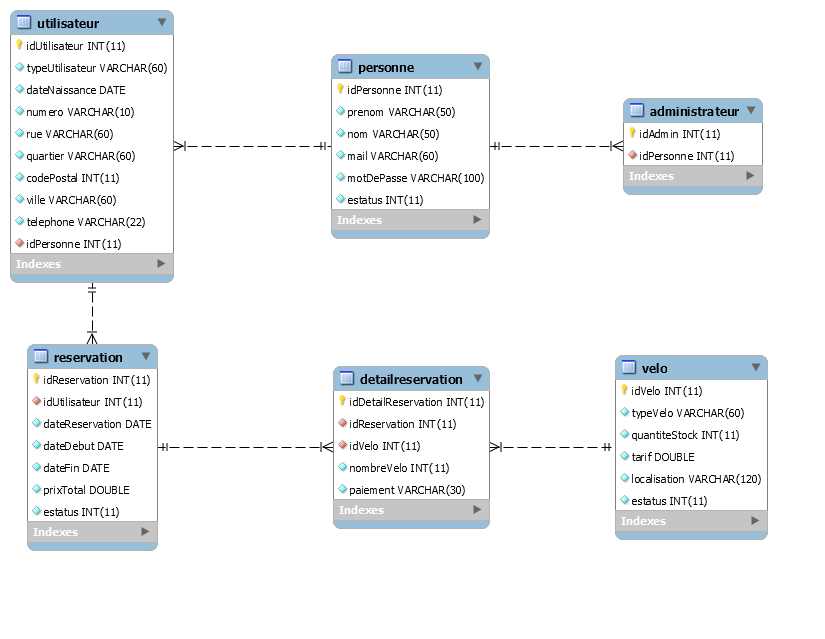
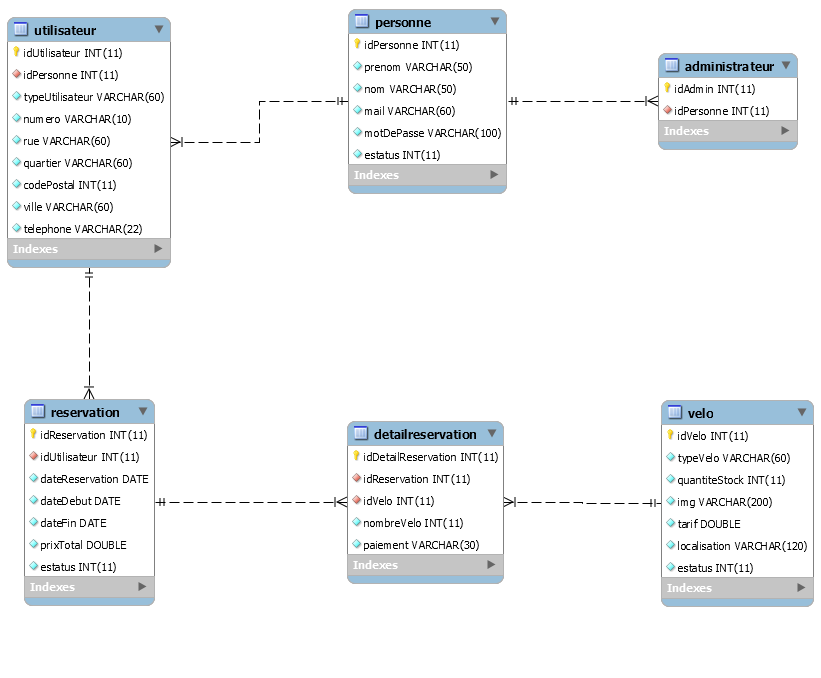
Projet Vélapp

diff --git a/cdc_technique.html b/cdc_technique.html
@@ -51,11 +51,11 @@
 			<ul class="list-group list-group-flush">
 				<li class="list-group-item">
 					<p>Tout d’abord, il faut choisir les technologies à utiliser pour la réalisation du projet, ils
-						doivent comprendre en tant que le développement mobile, la base de données et le capteur
-						d’alerte en cas d’un antivol du vélo.</p>
-					<p><b>Développement mobile </b></p>
+						doivent comprendre en tant que le développement de la progressive web app, la base de données et
+						le capteur de température et détection en cas d’une chute des vélos.</p>
+					<p><b>Développement PWA </b></p>
 					<p><b><i><a href="https://onsen.io/">Onsen UI :</a></i></b><img src="img/onsen.png"
-							style="width: 80px; height: 100px; float: right; margin-top: -10px; margin-left: 3px; margin-right: auto;">
+							style="width: 50px; height: 60px; float: right; margin-top: -70px; margin-left: 3px; margin-right: auto;">
 						Onsen UI est un Framework open source pour créer des applications Web
 						progressives (PWAs) et des applications hybrides. Il est basé sur PhoneGap et Cordova. Les
 						applications Web progressives (PWAs) sont créées avec le but d’offrir une fiabilité et une
@@ -65,16 +65,15 @@
 					<p>Onsen UI peut être utilisé avec plusieurs frameworks en tant de JavaScript, AngularJS (1, 2+),
 						ReactJS et
 						JQuery. Grâce à Onsen UI, des applications mobiles peuvent être créées à l’aide de technologies
-						Web en tant de <b>HTML5, CSS</b> et <b>JavaScript</b>. C’est pourquoi il a été décidé de
-						réaliser une
-						application web progressive, on peut l’utiliser soit par l’ordinateur ou bien pour le mobile en
-						utilisant simplement ces technologies, au lieu d’utiliser des langages natifs pour le
-						développement mobile et qu’ils ne permettent pas de créer des applications web. Notre cliente
-						pourra faire d’usage de l’application n’importe quel appareil une fois installée.</p>
+						Web en tant de <b>HTML5, CSS</b> et <b>JavaScript</b>. Ces dernières étant choisies pour le
+						développement de l’application. De même, l’utilisation de la librairie <b>Bootstrap</b> sera
+						largement
+						utilisée dans le projet, afin d’obtenir de meilleurs résultats dans l’interface web ou mobile,
+						tout en respectant à tout moment un design responsif.</p>
 					<p><b>Gestionnaires de Bases de Données</b></p>
 					<p><b><i><a href="https://www.mysql.com/">MySQL :</a></i></b><img
 							src="https://upload.wikimedia.org/wikipedia/fr/thumb/6/62/MySQL.svg/1200px-MySQL.svg.png"
-							style="width: 150px; height: 100px; float: right; margin-top: -15px; margin-left: 5px; margin-right: auto;">
+							style="width: 100px; height: 50px; float: right; margin-top: -60px; margin-left: 5px; margin-right: auto;">
 						C’est un système open source pour la gestion de base de données relationnelle
 						(RDBMS). Une base de données relationnelle permet d’entreposer et d’organiser les données
 						structurées sous forme de tableaux liés entre eux. Nous pouvons définir MySQL en tant qu’un
@@ -82,36 +81,65 @@
 						données d'une base de données, parmi les actions disponibles : créer, lire, mettre en jour et
 						supprimer (CRUD en anglais).</p>
 					<p>En raison des caractéristiques du projet à développer, il a été décidé d’utiliser une base de
-						données relationnelle, parce que les données à gérer ainsi que doivent être organisées et que
-						les tableaux seront liés les uns aux autres.</p>
-					<p><b>Components (Anti-vol)</b></p>
+						données relationnelle, parce que les données à gérer doivent être organisées et les tableaux
+						seront liés les uns aux autres.</p>
+					<p><b>Langage côté serveur</b></p>
+					<p><b><i><a href="https://www.java.com/es/">Java :</a></i></b><img
+							src="https://img-0.journaldunet.com/HfJq3WeEZD8WMieqZqeiYTk_9MQ=/1500x/smart/218d741508034c0aaf1e4c246f54756d/ccmcms-jdn/12420397.jpg"
+							style="width: 100px; height: 60px; float: right; margin-top: -70px; margin-left: 5px; margin-right: auto;">
+						Pour l’échange de données entre notre application et la base de données, il est nécessaire
+						d’utiliser un langage côté serveur. Java a été choisi pour cela. Un langage open source qui
+						permet la programmation orientée objet. Pour utiliser Java, il est nécessaire d’avoir le JDK,
+						qui est un ensemble de bibliothèques et de
+						logiciels de développement pour la création d’applications en Java, ainsi que le compilateur et
+						l’interpréteur Java.</p>
+					<p>Un IDE est également nécessaire, notre environnement de développement intégré sera Netbeans, qui
+						nous permet de versionner le projet comme Github et fournit divers outils pour une
+						implémentation simple.</p>
+					<p>Le projet suivra le MVC (Modèle, Vue, Contrôleur). Les classes seront définies avec java, qui
+						sont des entités (objets) avec des attributs et des méthodes. Les contrôleurs seront le lien
+						entre la vue et le modèle. Enfin, la vue correspond à toute la logique de l’interface de
+						l’utilisateur.</p>
+					<p><b>Serveur Web</b></p>
+					<p><b><i><a href="https://httpd.apache.org/">Apache :</a></i></b><img
+							src="https://desarrolloweb.com/storage/tag_images/actual/nzShTvdaGzLCIO0FalGMkhnqXIcXcIwXABW9b4JU.png"
+							style="width: 110px; height: 70px; float: right; margin-top: -70px; margin-left: 5px; margin-right: auto;">
+						Pour faire fonctionner le serveur qui hébergera notre application lors de la création du projet,
+						il a été choisi d’utiliser Apache qui est intégré sur Netbeans.</p>
+					<p><b>Components (Objets Connectés)</b></p>
 					<p><b><i><a href="https://www.arduino.cc/en/software">Arduino :</a></i></b><img
 							src="https://www.wizcase.com/wp-content/uploads/2020/10/ArduinoLogo.png"
-							style="width: 120px; height: 80px; float: right; margin-top: -1px; margin-left: 5px; margin-right: auto;">
+							style="width: 90px; height: 50px; float: right; margin-top: -60px; margin-left: 5px; margin-right: auto;">
 						Tout d’abord, il faut souligner notre environnement du développement pour les components à
 						utiliser. Le projet sera développé dans l’IDE Arduino, c’est une plateforme ouverte (open
 						source) écrite en fonctions C et C ++, il est utilisé pour écrire et charger des programmes sur
 						des plaques compatibles avec Arduino. C’est grâce à sa facilité et l’énorme communauté qu’il
 						compte, que j’ai décidé choisir l’IDE Arduino.
 					</p>
-					<p><b><i><a href="https://www.espressif.com/en/products/socs/esp32">ESP32 :</a> </i></b><img
-							src="https://cdn.shopify.com/s/files/1/1509/1638/products/devkitcmain1er.jpg?v=1605876225"
-							style="width: 100px; height: 110px; float: right; margin-top: -15px; margin-left: 5px; margin-right: auto;">
-						Il s’agit d’une série de microcontrôleurs système sur une puce, peu coûteuse et accessible sur
-						le marché (le prix est compris entre 10 euros). Il dispose d’une connectivité Wifi et Bluetooth.
-						Bien qu’il soit légèrement plus cher
-						que l’ESP8266, l’ESP32 est amélioré en matière de Bluetooth 4.0, de chiffrement par hardware,
-						capteurs, horloge temps réel (RTC). Enfin, il offre plus de ports et plus de bus. C’est grâce à
-						ses points favorables qu’on a décidé d’utiliser ce microcontrôleur pour ce projet.
+					<p><b><i><a href="https://www.arduino.cc/en/software">Adafruit IO :</a></i></b><img
+							src="https://upload.wikimedia.org/wikipedia/commons/thumb/9/90/Adafruit_logo.svg/2560px-Adafruit_logo.svg.png"
+							style="width: 80px; height: 40px; float: right; margin-top: -40px; margin-left: 5px; margin-right: auto;">
+						C’est un service cloud qui nous permet de surveiller les données et de réaliser des rayons de
+						contrôle en ligne et tout communiqué avec le protocole simple et efficace MQTT. Si bien, il
+						possède certaines limitations, mais ses avantages se trouvent dans la facilité d’utilisation, un
+						service gratuit et entièrement fonctionnel.
 					</p>
-					<p><b><i><a href="">Capteur HC-SR501 :</a></i></b><img
-							src="https://1.bp.blogspot.com/-B5kQBCafySA/WuYOgU5R5WI/AAAAAAAAALY/O0s8o0ssbsoC7AUVmGfQ51nh0Hzk3lcaACPcBGAYYCw/s1600/HC-SR501.png"
-							style="width: 145px; height: 130px; float: right; margin-top: -30px; margin-left: 5px; margin-right: auto;">
+					<p><b><i><a href="https://www.espressif.com/en/products/socs/esp32">ESP8266 :</a> </i></b><img
+							src="https://www.gmelectronic.com/data/product/1024_1024/pctdetail.775-054.1.jpg"
+							style="width: 80px; height: 90px; float: right; margin-top: -15px; margin-left: 5px; margin-right: auto;">
+						Il s’agit d’une série de microcontrôleurs système sur une puce, bon marché et accessible sur le
+						marché (le prix est compris entre 5-10 euros). Il dispose d’une connectivité Wifi et Bluetooth.
+						Il supporte IPv4 et les protocoles TCP/UDP/HTTP/FTP. C’est grâce à ses points favorables qu’on a
+						décidé d’utiliser ce microcontrôleur pour ce projet.
+					</p>
+					<p><b><i><a href="">Capteur DHT-22 :</a></i></b><img
+							src="https://www.gotronic.fr/ori-capteur-de-t-et-d-humidite-dht22-20719.jpg"
+							style="width: 100px; height: 100px; float: right; margin-top: -15px; margin-left: 5px; margin-right: auto;">
 						En continuant avec les composants du projet, il est nécessaire de faire usage d’un capteur de
-						mouvement, qui nous permettra de le manipuler avec l’ESP32 pour pouvoir alerter l’utilisateur
-						lorsque le vélo lance la fonction de surveillance et il soit pris par quelqu’un d’autre. Après
-						une recherche et de réaliser une comparaison, il sera nécessaire d’utiliser le capteur PIR
-						(Passive InfraRed sensor = Capteur infrarouge passif) HC-SR501. <br><br>Ce capteur compte avec
+						température et d’humidité, qui nous permettra de le manipuler avec l’ESP8266 pour pouvoir
+						monitorer ces valeurs pendant le trajet d’un utilisateur lorsque le vélo est réservé. Après une
+						recherche et de réaliser une comparaison, il sera nécessaire d’utiliser le capteur DHT22.
+						<br><br>Ce capteur compte avec
 						différentes lentilles de Frenel, ils permettent de regarder et envoyer l’image d’une zone de
 						détection sur le capteur. Le prix est d’environ 3-5 euros sur le marché. Parmi les
 						caractéristiques principales :
@@ -125,36 +153,28 @@
 						</thead>
 						<tbody>
 							<tr>
-								<th scope="row">Portée de détection</th>
-								<td>7 mètres</td>
+								<th scope="row">Gamme d'humidité</th>
+								<td>0-100% (précision 2% à 5%)</td>
 							</tr>
 							<tr>
-								<th scope="row">Angle opérationnel</th>
-								<td>120°</td>
+								<th scope="row">Gamme de température</th>
+								<td>-40°C à 80°C (précision ±0.5°C)</td>
 							</tr>
 							<tr>
 								<th scope="row">Tension d’alimentation</th>
-								<td>5V – 20V</td>
+								<td>3V à 5V</td>
 							</tr>
 							<tr>
 								<th scope="row">Consommation</th>
-								<td>65mA</td>
-							</tr>
-							<tr>
-								<th>Sortie TTL</th>
-								<td>3.3V, 0V</td>
+								<td>2.5mA max</td>
 							</tr>
 							<tr>
 								<th>Temps de verrouillage</th>
 								<td>0.2 sec à 3s selon fabricant</td>
 							</tr>
 							<tr>
-								<th>Température</th>
-								<td>– 15 à +70°C</td>
-							</tr>
-							<tr>
 								<th>Dimension</th>
-								<td>32*24 mm</td>
+								<td>25 * 15 * 9 mm</td>
 							</tr>
 						</tbody>
 					</table>
@@ -192,7 +212,7 @@
 					<p><b>- DetailReservation :</b> Il faut créer une entité intermédiaire entre le vélo et la
 						réservation afin que les utilisateurs puissent ajouter plus d’un vélo dans une même réservation.
 						L’entité reçoive les deux id du tableau velo et reservation en tant de foreign keys.</p>
-					<img src="img/Model_VeloConnecte.png" class="card-img-top" title="Bête-a-cornes">
+					<img src="img/Model_VeloConnecte.png" class="card-img-top" title="Model_BD">
 				</li>
 			</ul>
 		</div>

diff --git a/cdc_fonctionnel.html b/cdc_fonctionnel.html
@@ -53,7 +53,7 @@
 					<p>Aujourd’hui, l’importance de l’utilisation de transport non polluants est vitale pour
 						l’environnement. Cela permet de réduire la pollution et l’utilisation excessive des voitures
 						dans une ville. Il existe différentes options sur le marché comme le vélo et le scooter
-						traditionnel ou électrique. <br><br>
+						traditionnel ou électrique.<br><br>
 						C'est une alternative d’utilisation moins coûteuse, plus saine et plus écologique.
 						Malheureusement, ce n’est pas un marché aussi vaste, car seulement dans les grandes villes
 						(métropolitaines) nous pouvons trouver le service de vélos et scooters partagés. La plupart de
@@ -79,20 +79,42 @@
 						l’utilisateur.
 					</p>
 					<p> Il convient de souligner que l’application permettra aux utilisateurs visualiser les nombres de
-						vélo disponibles dans la ville ainsi que les différents types de vélos. De la même manière
-						l’application disposera un système de sécurité pour le vélo, c'est-à-dire un système anti-vol
-						qui donnera une alerte comme notification à l'utilisateur grâce au capteur intégré.
+						vélo disponibles dans la ville, le tarif correspondant au profil ainsi que les différents types
+						de vélos. De la même manière l’application disposera un système de détection des chutes pour les
+						vélos, et la lecture de température et humidité qui seront stockés pour l'administrateur grâce
+						aux capteurs intégrés afin de protéger ses vélos.
 					</p>
 				</li>
 			</ul>
 		</div>
 		<hr style="border: solid;">
+		<!-- Objectifs spécifiques -->
+		<div class="card">
+			<div class="card-header">
+				<hr style="border: ridge;">
+				<h3>1.3 Objectifs spécifiques</h3>
+				<hr style="border: ridge;">
+			</div>
+			<ul class="list-group list-group-flush">
+				<li class="list-group-item">
+					<p>• Créer un compte</p>
+					<p>• Gérer un compte</p>
+					<p>• Faire ou annuler une réservation</p>
+					<p>• Gérer le détail d’une réservation</p>
+					<p>• Consulter la liste des réservations réalisées</p>
+					<p>• Voir les différents vélos disponibles</p>
+					<p>• Enregistrer les valeurs de température et d’humidité d’un vélo</p>
+					<p>• Suivre pendant le trajet d’un vélo en cas de chute</p>
+				</li>
+			</ul>
+		</div>
 
+		<hr style="border: solid;">
 		<!-- Étude Concurrentielle -->
 		<div class="card">
 			<div class="card-header">
 				<hr style="border: ridge;">
-				<h3>1.3 Étude Concurrentielle</h3>
+				<h3>1.4 Étude Concurrentielle</h3>
 				<hr style="border: ridge;">
 			</div>
 			<ul class="list-group list-group-flush">
@@ -223,7 +245,7 @@
 					<td>• Il n’est pas possible de faire des réservations pour Saint-Dié-des-Vosges depuis le site
 						web.<br><br>
 						• Elle ne dispose pas d’une application mobile. <br><br>
-						• En l’absence d’une app mobile ou d’un site web pour la succursale à Saint-Dié, les gens
+						• En l’absence d’une app mobile ou d’une application web pour la succursale à Saint-Dié, les gens
 						doivent soit aller physiquement pour effectuer le processus soit entrer en contact avec leurs
 						réseaux sociaux comme Facebook, ce qui n’est pas pratique.
 					</td>
@@ -242,9 +264,9 @@
 							src="https://www.pagesjaunes.fr/media/ugc/boutique_velhop_centre_06748200_155107647"
 							style="width: 100px; height: 70px;"></th>
 					<td>• L'application offre différents vélos: vélo classique, enfant ou adulte, vélo tandem, vélo à
-						assistance électrique.<br>
+						assistance électrique, etc.<br>
 						• Le service compte avec 6800 vélos, 20 stations automatiques et 5 boutiques.<br>
-						• On peut réserver en ligne. Tout d'abord, il faut créer un compte à partir du site web ainsi
+						• On peut réserver en ligne. D'abord, il faut créer un compte à partir du site web ainsi
 						que le renouveler. <br>
 						• Le service offre différents forfaits, soit par les enfants ou les étudiants avec un prix
 						accessible.<br>
@@ -286,7 +308,7 @@
 				</p>
 				<p>
 					De plus, ils sont de services qui ont déjà leurs propres vélos et tarifs. Il n’y pas un service
-					capable de gérer le besoin de notre client. Pour telle raison, une progressive web application (PWA)
+					capable de gérer les besoins de notre client. Pour telle raison, une progressive web application (PWA)
 					sera développée afin de résoudre le problème de notre client.
 				</p>
 			</li>
@@ -297,7 +319,7 @@
 		<div class="card">
 			<div class="card-header">
 				<hr style="border: ridge;">
-				<h3>1.4 Description fonctionnelle des besoins</h3>
+				<h3>1.5 Description fonctionnelle des besoins</h3>
 				<hr style="border: ridge;">
 			</div>
 			<ul class="list-group list-group-flush">
@@ -377,9 +399,8 @@
 				</tr>
 				<tr>
 					<th scope="row">8</th>
-					<td>Protection d'un anti-vol.</td>
-					<td>Le système permettra d'utiliser le vélo une fois que la verification de la réservation et
-						paiement soient validées.</td>
+					<td>Protection des vélos.</td>
+					<td>Le système permettra d'enregistrer la température et l'humidité d'un vélo pendant le trajet. Il sera également équipé d'une détection de chute.</td>
 					<td>Élevée.</td>
 				</tr>
 			</tbody>
@@ -435,7 +456,7 @@
 		<div class="card">
 			<div class="card-header">
 				<hr style="border: ridge;">
-				<h3>1.5 Devis</h3>
+				<h3>1.6 Devis</h3>
 				<hr style="border: ridge;">
 			</div>
 			<ul class="list-group list-group-flush">
@@ -505,7 +526,7 @@
 		<div class="card">
 			<div class="card-header">
 				<hr style="border: ridge;">
-				<h3>1.6 Méthodologie du projet</h3>
+				<h3>1.7 Méthodologie du projet</h3>
 				<hr style="border: ridge;">
 			</div>
 			<ul class="list-group list-group-flush">
@@ -532,7 +553,7 @@
 		<div class="card">
 			<div class="card-header">
 				<hr style="border: ridge;">
-				<h3>1.7 Planning prévisionnel</h3>
+				<h3>1.8 Planning du projet</h3>
 				<hr style="border: ridge;">
 			</div>
 			<ul class="list-group list-group-flush">
@@ -547,7 +568,7 @@
 		</div>
 		<br>
 		<div class="diagramme-gantt">
-			<img src="img/diagramme-gantt.jpg" alt="Planning prévisionnel">
+			<img src="img/diagramme-gantt.jpg" alt="Planning prévisionnel" style="border-style:ridge;">
 		</div>
 
 		<!--BIBLIOGRAPHIE -->

diff --git a/index.html b/index.html
@@ -78,7 +78,7 @@
 		</div>
 		<ul class="list-group list-group-flush">
 			<li class="list-group-item">
-				<p>Réaliser un système de sécurité pour le vélo qui comprend d'un anti-vol.</p>
+				<p>Réaliser un système pour la détection de chute d'un vélo, ainsi que la lecture de la température et l'humidité.</p>
 			</li>
 		</ul>
 	</div>
